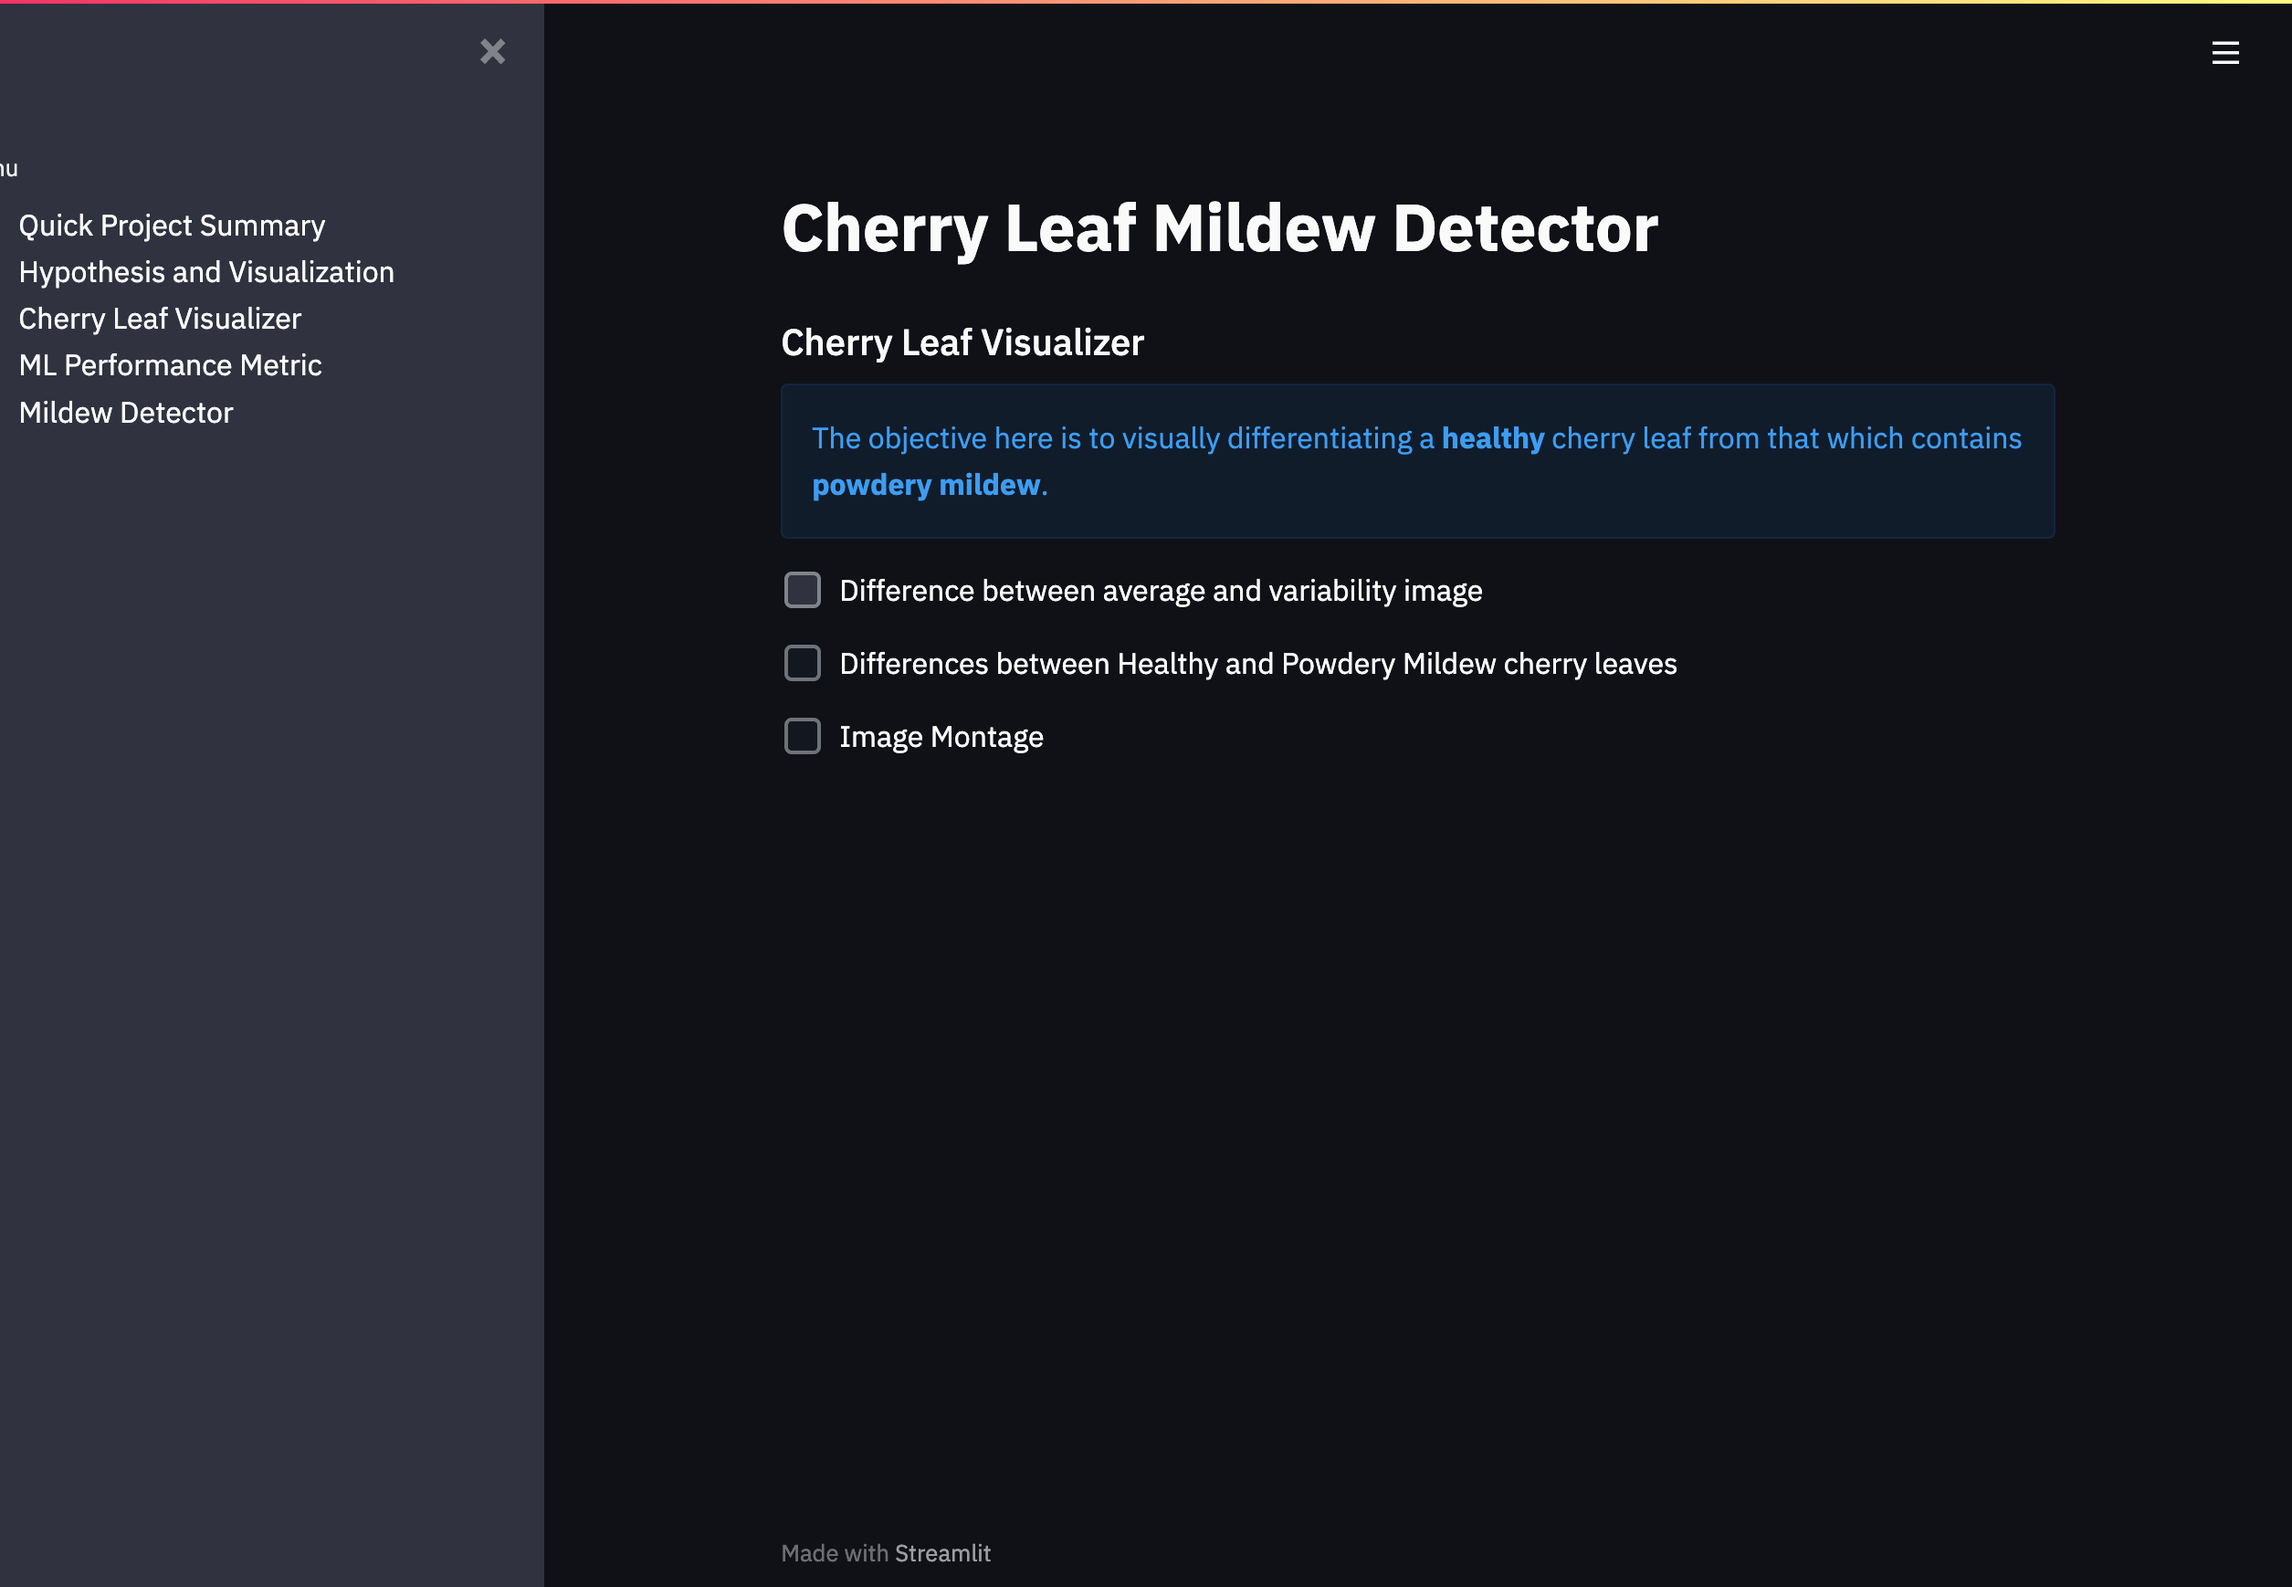
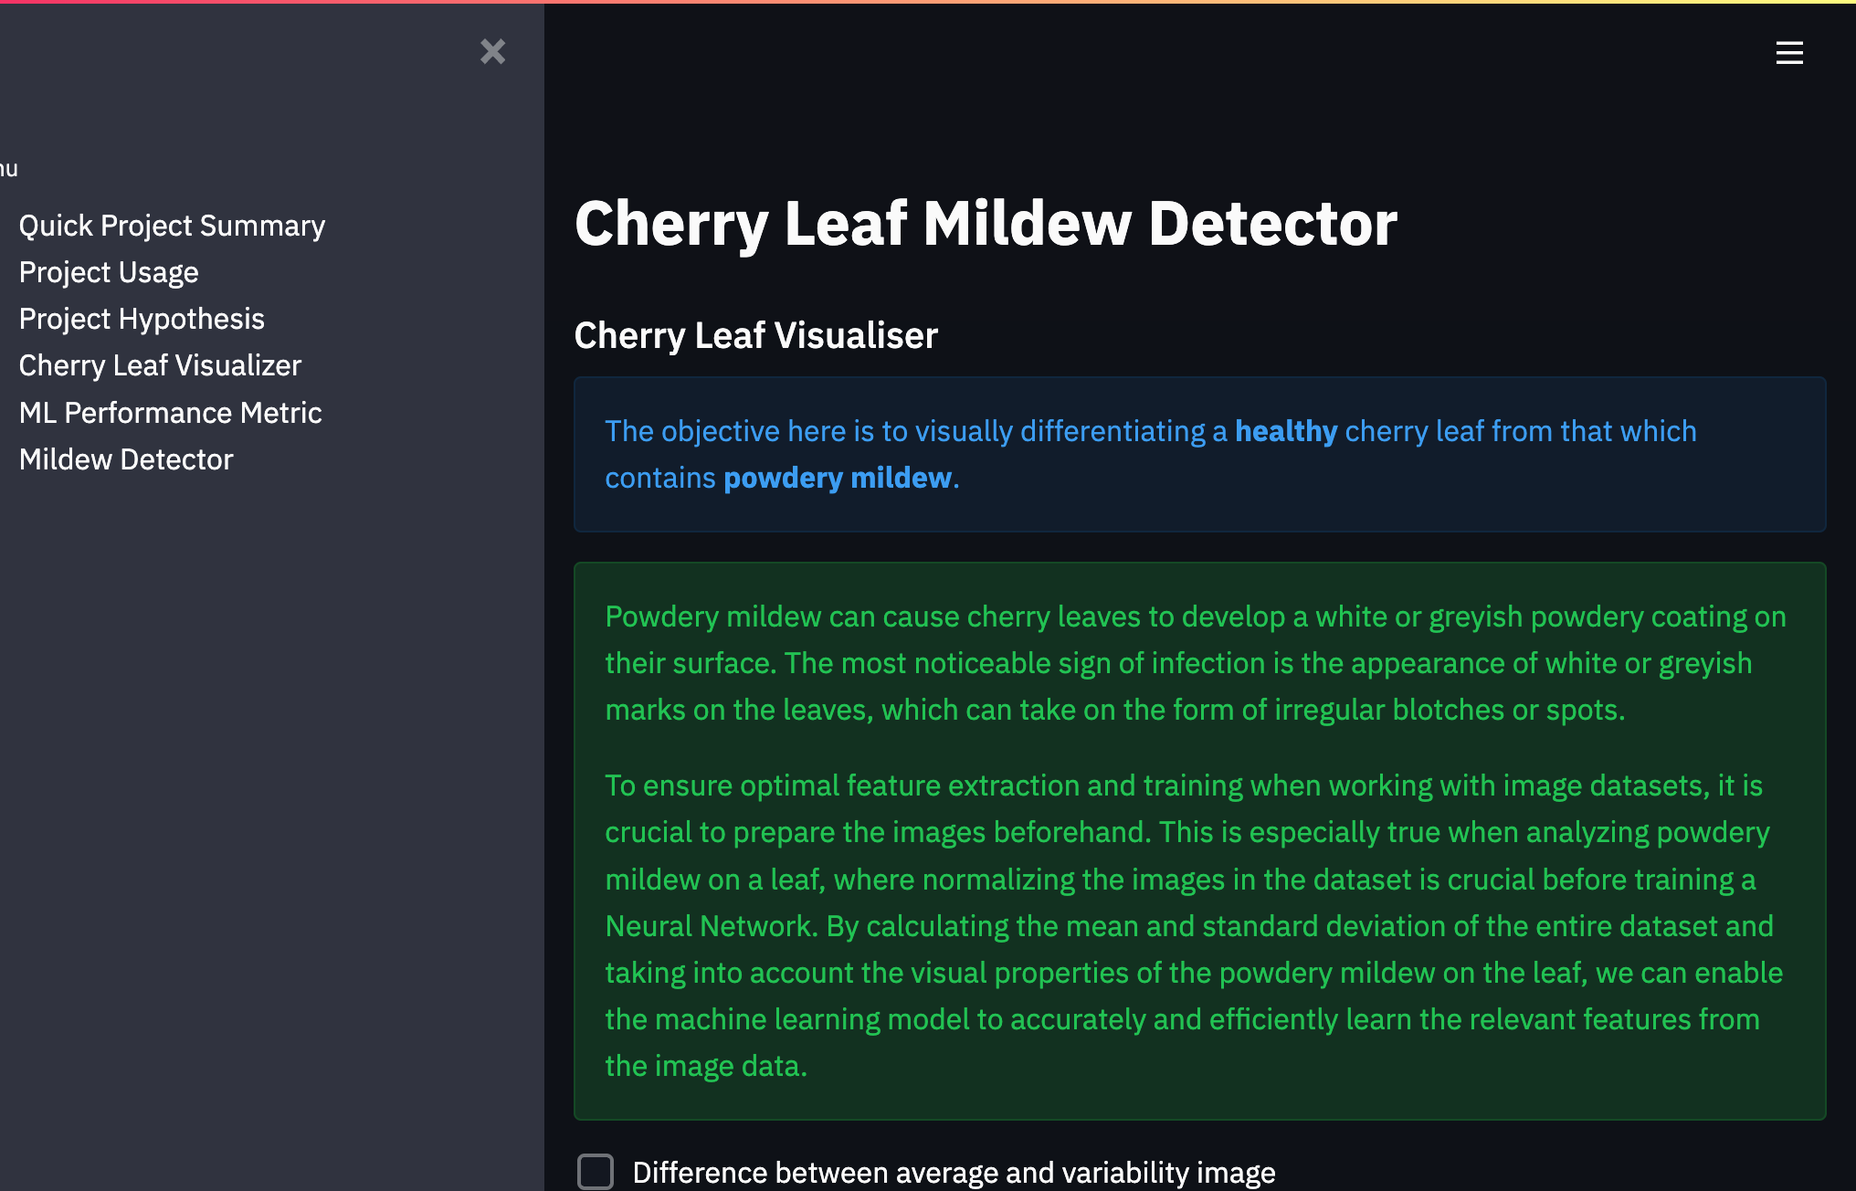
added a new page in the readme files and updated the existing images of the project to match

diff --git a/README.md b/README.md
@@ -184,27 +184,30 @@ This wireframe is a rough picture of the project's appearance when finished.
         *  The client is interested in conducting a study to visually differentiate a healthy cherry leaf from one that contains powdery mildew.
         *  The client is interested in predicting if a cherry tree is healthy or contains powdery mildew.
 
-### Page 2: Cherry leaf visualiser
+### Page 2: Project Usage
+* A Page describing the usage of the project.
+* Steb by steb guide on how to use the diferent pages
+
+### Page 3: Cherry leaf visualiser
 * It will answer business requirement 1
     * Lists the findings related to the study to visually differentiate a healthy cherry leaf from one that contains powdery mildew.
     * Checkbox 1 - Difference between average and variability image
     * Checkbox 2 - Differences between Healthy and Powdery Mildew Cherry Leaves
     * Checkbox 3 - Image Montage
 
+### Page 4: Project Hypothesis and Validation
+* Display each project hypothesis and validation
 
-### Page 3: Mildew detector
+### Page 5: ML performance metrics
+* A technical page displaying the model performance
+
+### Page 6: Mildew detector
 * It will answer business requirement 2
     * Link to download a set of cherry leaf images for live prediction
     * File upload widget to upload one or more images for prediction
     * Display image and prediction statement indicating whether or not a cherry leaf contains mildew
     * Display table with the image name and prediction result
     * Download button to download the table
-
-### Page 4: Project Hypothesis and Validation
-* Display each project hypothesis and validation
-
-### Page 5: ML performance metrics
-* A technical page displaying the model performance
 
 ---
 
@@ -218,17 +221,22 @@ This page displays a brief overview of the project requirements and the dataset.
 
 ![Summary](readmefiles/images/pp5-mildew-detector-christian.herokuapp.com-summary.png)
 
-- **Page 2: Hypothesis and Visualization**
+- **Page 2: Project Usage**
+This page explains the usege of the diferent pages in the project.
+
+![Hypothesis-visualisation](readmefiles/images/pp5-mildew-detector-christian.herokuapp.com-usage.png)
+
+- **Page 3: Hypothesis and Visualization**
 This page shows the project hypothesis and how it is validated across the project.
 
 ![Hypothesis-visualisation](readmefiles/images/pp5-mildew-detector-christian.herokuapp.com-hypothesis-visualisation.png)
  
-- **Page 3: Cherry leaf visualiser**
+- **Page 4: Cherry leaf visualiser**
 This page displays a brief overview of the project requirements and the dataset.
 
 ![Leaf-visualiser](readmefiles/images/pp5-mildew-detector-christian.herokuapp.com-leaf-visualiser.png)
  
-- **Page 4: ML Performance Metric**
+- **Page 5: ML Performance Metric**
 Technical information about the model and data are displayed on this page. It shows the:
   * label frequencies of the train, validation and test datasets.
   * training model accuracy and loss charts.
@@ -236,7 +244,7 @@ Technical information about the model and data are displayed on this page. It sh
 
 ![Preformance](readmefiles/images/pp5-mildew-detector-christian.herokuapp.com-preformance.png)
 
-- **Page 5: Mildew Detector**
+- **Page 6: Mildew Detector**
 This provides the interface for the user to upload test samples and predict whether or not the examples provided are healthy or infested with powdery leaf mildew. It features a *Browse file* button, which the user can use to upload one or more image files. Prediction is only made once the user clicks the *Make Prediction* button. The image is uploaded, and the prediction and report are displayed to the user when the forecast is complete.
 
 ![Detector](readmefiles/images/pp5-mildew-detector-christian.herokuapp.com-detector.png)
